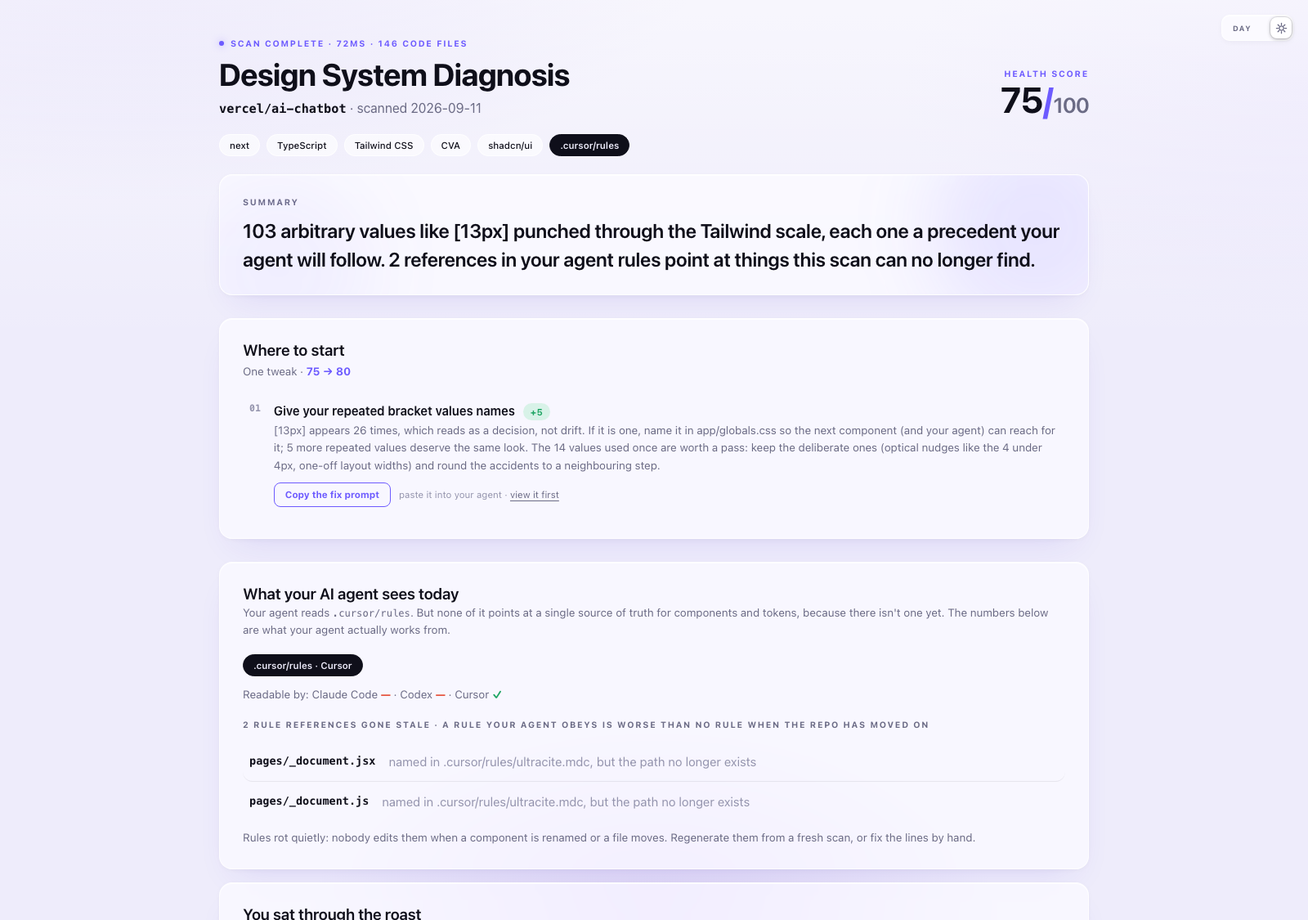
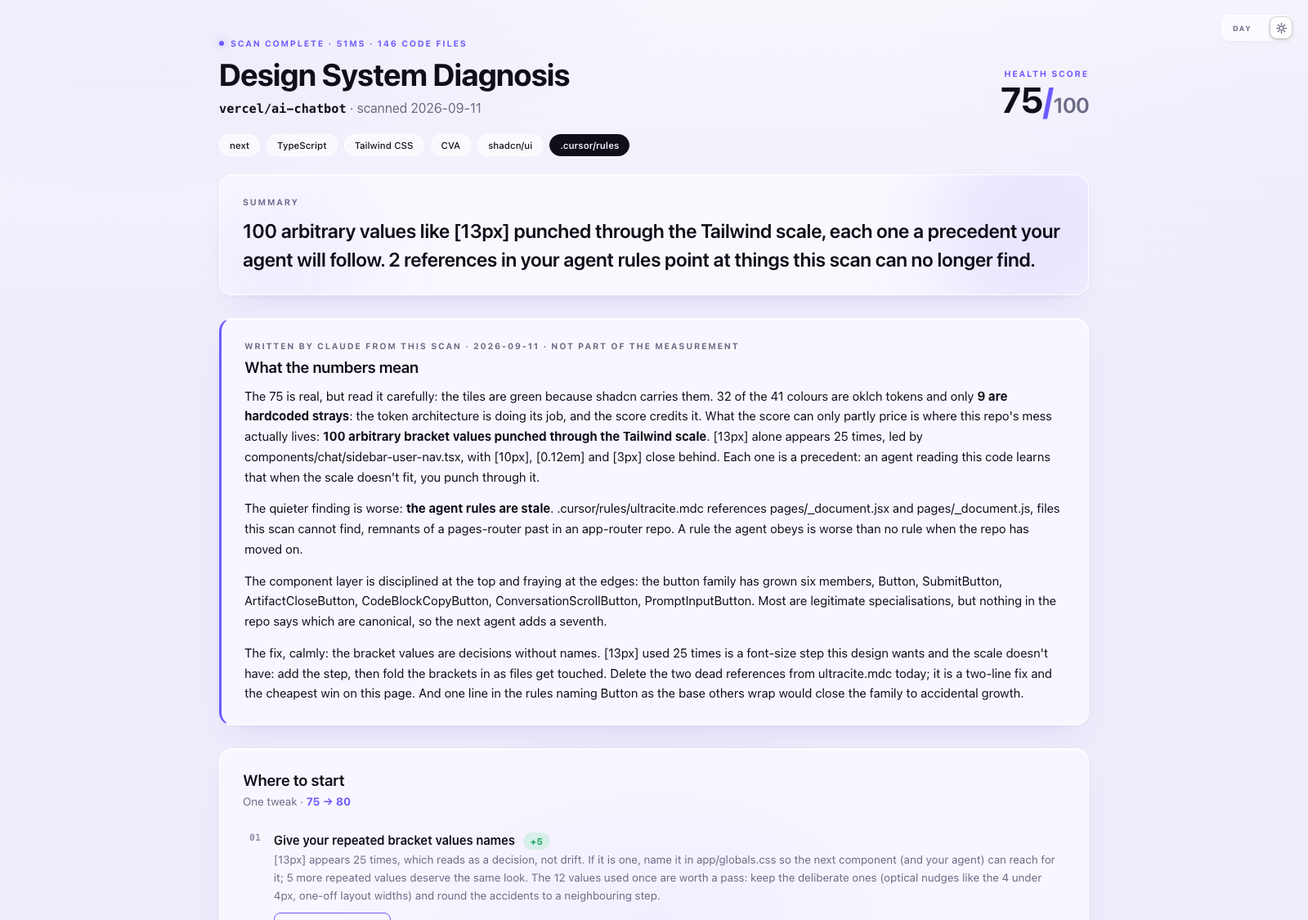
7.0.0 shop window: screenshots reshot in Chrome, README boxes for 7.0 and 6.0, examples stamped 7.0.0
Screenshots from the regenerated vercel/ai-chatbot example, with its
notes back: full dark at 1400x7864, light hero at 1600x1125. README
keeps the 6.0 box under the new 7.0 one, the --json row says the
summary is versioned, and the trust list gains the importable score.
Cache keys move to 7.0.0.

diff --git a/docs/examples/adobe-spectrum.html b/docs/examples/adobe-spectrum.html
@@ -416,7 +416,7 @@
[1 lines of base64/hex data omitted]
   .author:hover { text-decoration:underline; }
 </style>
-<!-- rmds-schema: gregkozakiewicz/6.0.1 -->
+<!-- rmds-schema: gregkozakiewicz/7.0.0 -->
 <!-- rmds-score: 66 -->
 </head><body>
 <button class="theme-toggle glass" aria-label="Switch between light and dark mode" onclick="(function(){var r=document.documentElement,t=r.getAttribute('data-theme')==='light'?'dark':'light';r.setAttribute('data-theme',t);try{localStorage.setItem('roast-theme',t)}catch(e){}})()">
@@ -433,7 +433,7 @@
 <header>
   <div class="hero">
     <div>
-      <div class="kicker"><span class="dot"></span>Scan complete · 297ms · 1,716 code files</div>
+      <div class="kicker"><span class="dot"></span>Scan complete · 289ms · 1,716 code files</div>
       <h1>Design System Diagnosis</h1>
       <div class="meta"><span class="mono">adobe/spectrum-web-components</span> · scanned 2026-09-11</div>
     </div>
@@ -611,7 +611,7 @@ Follow these rules when writing or editing UI in this repo. Every rule below was
 - Before styling anything new, look at a neighbouring component and match how it does it. Consistency with the repo beats personal preference.
 
 ---
-*Generated by [roast-my-design-system](https://github.com/gregkozakiewicz/roast-my-design-system) ver. 6.0.1. Rescan after refactors to keep these rules honest.*
+*Generated by [roast-my-design-system](https://github.com/gregkozakiewicz/roast-my-design-system) ver. 7.0.0. Rescan after refactors to keep these rules honest.*
 </pre>
         <div class="gift-actions">
           <button class="gbtn" id="gift-copy">Copy the rules</button>
@@ -933,8 +933,8 @@ Follow these rules when writing or editing UI in this repo. Every rule below was
 
 <footer>
   <div class="foot-left">
-    <div>Generated by <a class="brand" href="https://github.com/gregkozakiewicz/roast-my-design-system">roast-my-design-system</a> <span class="ver">ver. 6.0.1</span> · free to run: <a class="brand" href="https://www.npmjs.com/package/roast-my-design-system"><span class="mono" id="npx-cmd">npx roast-my-design-system</span></a> <button type="button" class="copy-pill" id="npx-copy">copy</button> · also a Claude Code + Codex skill and a local MCP server</div>
-    <div class="foot-sub">Designed and built by <a class="author" href="https://gregkozakiewicz.com/?utm_source=roast-report"><span class="gk-mark"></span>Greg Kozakiewicz</a> · <span class="scan-id" title="scan id">f77f3d3d1cd1</span> · Think it got something wrong? <a class="feedback" href="https://github.com/gregkozakiewicz/roast-my-design-system/issues/new?template=feedback.yml&amp;version=6.0.1"><svg class="pulse" viewBox="0 0 24 24" aria-hidden="true"><polyline points="2 12.5 6.5 12.5 9.5 4 15 20.5 18 12.5 22 12.5"/></svg>Say so, and say which bit</a></div>
+    <div>Generated by <a class="brand" href="https://github.com/gregkozakiewicz/roast-my-design-system">roast-my-design-system</a> <span class="ver">ver. 7.0.0</span> · free to run: <span class="mono" id="npx-cmd">npx roast-my-design-system@latest</span> <button type="button" class="copy-pill" id="npx-copy">copy</button> · also a Claude Code + Codex skill and a local MCP server</div>
+    <div class="foot-sub">Designed and built by <a class="author" href="https://gregkozakiewicz.com/?utm_source=roast-report"><span class="gk-mark"></span>Greg Kozakiewicz</a> · <span class="scan-id" title="scan id">f77f3d3d1cd1</span> · Think it got something wrong? <a class="feedback" href="https://github.com/gregkozakiewicz/roast-my-design-system/issues/new?template=feedback.yml&amp;version=7.0.0"><svg class="pulse" viewBox="0 0 24 24" aria-hidden="true"><polyline points="2 12.5 6.5 12.5 9.5 4 15 20.5 18 12.5 22 12.5"/></svg>Say so, and say which bit</a></div>
   </div>
   <span class="creds"><span>Non-destructive scan</span><span>Read-only</span><span>Paths are real</span></span>
 </footer>

diff --git a/docs/examples/excalidraw-excalidraw.html b/docs/examples/excalidraw-excalidraw.html
@@ -416,7 +416,7 @@
[1 lines of base64/hex data omitted]
   .author:hover { text-decoration:underline; }
 </style>
-<!-- rmds-schema: gregkozakiewicz/6.0.1 -->
+<!-- rmds-schema: gregkozakiewicz/7.0.0 -->
 <!-- rmds-score: 55 -->
 </head><body>
 <button class="theme-toggle glass" aria-label="Switch between light and dark mode" onclick="(function(){var r=document.documentElement,t=r.getAttribute('data-theme')==='light'?'dark':'light';r.setAttribute('data-theme',t);try{localStorage.setItem('roast-theme',t)}catch(e){}})()">
@@ -433,7 +433,7 @@
 <header>
   <div class="hero">
     <div>
-      <div class="kicker"><span class="dot"></span>Scan complete · 227ms · 509 code files</div>
+      <div class="kicker"><span class="dot"></span>Scan complete · 156ms · 509 code files</div>
       <h1>Design System Diagnosis</h1>
       <div class="meta"><span class="mono">excalidraw/excalidraw</span> · scanned 2026-09-11</div>
     </div>
@@ -599,7 +599,7 @@ Follow these rules when writing or editing UI in this repo. Every rule below was
 - Before styling anything new, look at a neighbouring component and match how it does it. Consistency with the repo beats personal preference.
 
 ---
-*Generated by [roast-my-design-system](https://github.com/gregkozakiewicz/roast-my-design-system) ver. 6.0.1. Rescan after refactors to keep these rules honest.*
+*Generated by [roast-my-design-system](https://github.com/gregkozakiewicz/roast-my-design-system) ver. 7.0.0. Rescan after refactors to keep these rules honest.*
 </pre>
         <div class="gift-actions">
           <button class="gbtn" id="gift-copy">Copy the rules</button>
@@ -1152,8 +1152,8 @@ Follow these rules when writing or editing UI in this repo. Every rule below was
 
 <footer>
   <div class="foot-left">
-    <div>Generated by <a class="brand" href="https://github.com/gregkozakiewicz/roast-my-design-system">roast-my-design-system</a> <span class="ver">ver. 6.0.1</span> · free to run: <a class="brand" href="https://www.npmjs.com/package/roast-my-design-system"><span class="mono" id="npx-cmd">npx roast-my-design-system</span></a> <button type="button" class="copy-pill" id="npx-copy">copy</button> · also a Claude Code + Codex skill and a local MCP server</div>
-    <div class="foot-sub">Designed and built by <a class="author" href="https://gregkozakiewicz.com/?utm_source=roast-report"><span class="gk-mark"></span>Greg Kozakiewicz</a> · <span class="scan-id" title="scan id">fcd87125ec27</span> · Think it got something wrong? <a class="feedback" href="https://github.com/gregkozakiewicz/roast-my-design-system/issues/new?template=feedback.yml&amp;version=6.0.1"><svg class="pulse" viewBox="0 0 24 24" aria-hidden="true"><polyline points="2 12.5 6.5 12.5 9.5 4 15 20.5 18 12.5 22 12.5"/></svg>Say so, and say which bit</a></div>
+    <div>Generated by <a class="brand" href="https://github.com/gregkozakiewicz/roast-my-design-system">roast-my-design-system</a> <span class="ver">ver. 7.0.0</span> · free to run: <span class="mono" id="npx-cmd">npx roast-my-design-system@latest</span> <button type="button" class="copy-pill" id="npx-copy">copy</button> · also a Claude Code + Codex skill and a local MCP server</div>
+    <div class="foot-sub">Designed and built by <a class="author" href="https://gregkozakiewicz.com/?utm_source=roast-report"><span class="gk-mark"></span>Greg Kozakiewicz</a> · <span class="scan-id" title="scan id">fcd87125ec27</span> · Think it got something wrong? <a class="feedback" href="https://github.com/gregkozakiewicz/roast-my-design-system/issues/new?template=feedback.yml&amp;version=7.0.0"><svg class="pulse" viewBox="0 0 24 24" aria-hidden="true"><polyline points="2 12.5 6.5 12.5 9.5 4 15 20.5 18 12.5 22 12.5"/></svg>Say so, and say which bit</a></div>
   </div>
   <span class="creds"><span>Non-destructive scan</span><span>Read-only</span><span>Paths are real</span></span>
 </footer>

diff --git a/docs/examples/dubinc-dub.html b/docs/examples/dubinc-dub.html
@@ -416,7 +416,7 @@
[1 lines of base64/hex data omitted]
   .author:hover { text-decoration:underline; }
 </style>
-<!-- rmds-schema: gregkozakiewicz/6.0.1 -->
+<!-- rmds-schema: gregkozakiewicz/7.0.0 -->
 <!-- rmds-score: 25 -->
 </head><body>
 <button class="theme-toggle glass" aria-label="Switch between light and dark mode" onclick="(function(){var r=document.documentElement,t=r.getAttribute('data-theme')==='light'?'dark':'light';r.setAttribute('data-theme',t);try{localStorage.setItem('roast-theme',t)}catch(e){}})()">
@@ -433,7 +433,7 @@
 <header>
   <div class="hero">
     <div>
-      <div class="kicker"><span class="dot"></span>Scan complete · 1032ms · 4,157 code files</div>
+      <div class="kicker"><span class="dot"></span>Scan complete · 714ms · 4,157 code files</div>
       <h1>Design System Diagnosis</h1>
       <div class="meta"><span class="mono">dubinc/dub</span> · scanned 2026-09-11</div>
     </div>
@@ -610,7 +610,7 @@ Follow these rules when writing or editing UI in this repo. Every rule below was
 - Before styling anything new, look at a neighbouring component and match how it does it. Consistency with the repo beats personal preference.
 
 ---
-*Generated by [roast-my-design-system](https://github.com/gregkozakiewicz/roast-my-design-system) ver. 6.0.1. Rescan after refactors to keep these rules honest.*
+*Generated by [roast-my-design-system](https://github.com/gregkozakiewicz/roast-my-design-system) ver. 7.0.0. Rescan after refactors to keep these rules honest.*
 </pre>
         <div class="gift-actions">
           <button class="gbtn" id="gift-copy">Copy the rules</button>
@@ -1107,8 +1107,8 @@ Follow these rules when writing or editing UI in this repo. Every rule below was
 
 <footer>
   <div class="foot-left">
-    <div>Generated by <a class="brand" href="https://github.com/gregkozakiewicz/roast-my-design-system">roast-my-design-system</a> <span class="ver">ver. 6.0.1</span> · free to run: <a class="brand" href="https://www.npmjs.com/package/roast-my-design-system"><span class="mono" id="npx-cmd">npx roast-my-design-system</span></a> <button type="button" class="copy-pill" id="npx-copy">copy</button> · also a Claude Code + Codex skill and a local MCP server</div>
-    <div class="foot-sub">Designed and built by <a class="author" href="https://gregkozakiewicz.com/?utm_source=roast-report"><span class="gk-mark"></span>Greg Kozakiewicz</a> · <span class="scan-id" title="scan id">f2e7a6e2d287</span> · Think it got something wrong? <a class="feedback" href="https://github.com/gregkozakiewicz/roast-my-design-system/issues/new?template=feedback.yml&amp;version=6.0.1"><svg class="pulse" viewBox="0 0 24 24" aria-hidden="true"><polyline points="2 12.5 6.5 12.5 9.5 4 15 20.5 18 12.5 22 12.5"/></svg>Say so, and say which bit</a></div>
+    <div>Generated by <a class="brand" href="https://github.com/gregkozakiewicz/roast-my-design-system">roast-my-design-system</a> <span class="ver">ver. 7.0.0</span> · free to run: <span class="mono" id="npx-cmd">npx roast-my-design-system@latest</span> <button type="button" class="copy-pill" id="npx-copy">copy</button> · also a Claude Code + Codex skill and a local MCP server</div>
+    <div class="foot-sub">Designed and built by <a class="author" href="https://gregkozakiewicz.com/?utm_source=roast-report"><span class="gk-mark"></span>Greg Kozakiewicz</a> · <span class="scan-id" title="scan id">f2e7a6e2d287</span> · Think it got something wrong? <a class="feedback" href="https://github.com/gregkozakiewicz/roast-my-design-system/issues/new?template=feedback.yml&amp;version=7.0.0"><svg class="pulse" viewBox="0 0 24 24" aria-hidden="true"><polyline points="2 12.5 6.5 12.5 9.5 4 15 20.5 18 12.5 22 12.5"/></svg>Say so, and say which bit</a></div>
   </div>
   <span class="creds"><span>Non-destructive scan</span><span>Read-only</span><span>Paths are real</span></span>
 </footer>

diff --git a/docs/examples/telekom-scale.html b/docs/examples/telekom-scale.html
@@ -416,7 +416,7 @@
[1 lines of base64/hex data omitted]
   .author:hover { text-decoration:underline; }
 </style>
-<!-- rmds-schema: gregkozakiewicz/6.0.1 -->
+<!-- rmds-schema: gregkozakiewicz/7.0.0 -->
 <!-- rmds-score: 55 -->
 </head><body>
 <button class="theme-toggle glass" aria-label="Switch between light and dark mode" onclick="(function(){var r=document.documentElement,t=r.getAttribute('data-theme')==='light'?'dark':'light';r.setAttribute('data-theme',t);try{localStorage.setItem('roast-theme',t)}catch(e){}})()">
@@ -433,7 +433,7 @@
 <header>
   <div class="hero">
     <div>
-      <div class="kicker"><span class="dot"></span>Scan complete · 86ms · 210 code files</div>
+      <div class="kicker"><span class="dot"></span>Scan complete · 83ms · 210 code files</div>
       <h1>Design System Diagnosis</h1>
       <div class="meta"><span class="mono">telekom/scale</span> · scanned 2026-09-11</div>
     </div>
@@ -601,7 +601,7 @@ Follow these rules when writing or editing UI in this repo. Every rule below was
 - Before styling anything new, look at a neighbouring component and match how it does it. Consistency with the repo beats personal preference.
 
 ---
-*Generated by [roast-my-design-system](https://github.com/gregkozakiewicz/roast-my-design-system) ver. 6.0.1. Rescan after refactors to keep these rules honest.*
+*Generated by [roast-my-design-system](https://github.com/gregkozakiewicz/roast-my-design-system) ver. 7.0.0. Rescan after refactors to keep these rules honest.*
 </pre>
         <div class="gift-actions">
           <button class="gbtn" id="gift-copy">Copy the rules</button>
@@ -1053,8 +1053,8 @@ Follow these rules when writing or editing UI in this repo. Every rule below was
 
 <footer>
   <div class="foot-left">
-    <div>Generated by <a class="brand" href="https://github.com/gregkozakiewicz/roast-my-design-system">roast-my-design-system</a> <span class="ver">ver. 6.0.1</span> · free to run: <a class="brand" href="https://www.npmjs.com/package/roast-my-design-system"><span class="mono" id="npx-cmd">npx roast-my-design-system</span></a> <button type="button" class="copy-pill" id="npx-copy">copy</button> · also a Claude Code + Codex skill and a local MCP server</div>
-    <div class="foot-sub">Designed and built by <a class="author" href="https://gregkozakiewicz.com/?utm_source=roast-report"><span class="gk-mark"></span>Greg Kozakiewicz</a> · <span class="scan-id" title="scan id">36590eb69160</span> · Think it got something wrong? <a class="feedback" href="https://github.com/gregkozakiewicz/roast-my-design-system/issues/new?template=feedback.yml&amp;version=6.0.1"><svg class="pulse" viewBox="0 0 24 24" aria-hidden="true"><polyline points="2 12.5 6.5 12.5 9.5 4 15 20.5 18 12.5 22 12.5"/></svg>Say so, and say which bit</a></div>
+    <div>Generated by <a class="brand" href="https://github.com/gregkozakiewicz/roast-my-design-system">roast-my-design-system</a> <span class="ver">ver. 7.0.0</span> · free to run: <span class="mono" id="npx-cmd">npx roast-my-design-system@latest</span> <button type="button" class="copy-pill" id="npx-copy">copy</button> · also a Claude Code + Codex skill and a local MCP server</div>
+    <div class="foot-sub">Designed and built by <a class="author" href="https://gregkozakiewicz.com/?utm_source=roast-report"><span class="gk-mark"></span>Greg Kozakiewicz</a> · <span class="scan-id" title="scan id">36590eb69160</span> · Think it got something wrong? <a class="feedback" href="https://github.com/gregkozakiewicz/roast-my-design-system/issues/new?template=feedback.yml&amp;version=7.0.0"><svg class="pulse" viewBox="0 0 24 24" aria-hidden="true"><polyline points="2 12.5 6.5 12.5 9.5 4 15 20.5 18 12.5 22 12.5"/></svg>Say so, and say which bit</a></div>
   </div>
   <span class="creds"><span>Non-destructive scan</span><span>Read-only</span><span>Paths are real</span></span>
 </footer>

diff --git a/docs/examples/vercel-ai-chatbot.html b/docs/examples/vercel-ai-chatbot.html
@@ -416,7 +416,7 @@
[1 lines of base64/hex data omitted]
   .author:hover { text-decoration:underline; }
 </style>
-<!-- rmds-schema: gregkozakiewicz/6.0.1 -->
+<!-- rmds-schema: gregkozakiewicz/7.0.0 -->
 <!-- rmds-score: 75 -->
 </head><body>
 <button class="theme-toggle glass" aria-label="Switch between light and dark mode" onclick="(function(){var r=document.documentElement,t=r.getAttribute('data-theme')==='light'?'dark':'light';r.setAttribute('data-theme',t);try{localStorage.setItem('roast-theme',t)}catch(e){}})()">
@@ -574,7 +574,7 @@ Follow these rules when writing or editing UI in this repo. Every rule below was
 - Before styling anything new, look at a neighbouring component and match how it does it. Consistency with the repo beats personal preference.
 
 ---
-*Generated by [roast-my-design-system](https://github.com/gregkozakiewicz/roast-my-design-system) ver. 6.0.1. Rescan after refactors to keep these rules honest.*
+*Generated by [roast-my-design-system](https://github.com/gregkozakiewicz/roast-my-design-system) ver. 7.0.0. Rescan after refactors to keep these rules honest.*
 </pre>
         <div class="gift-actions">
           <button class="gbtn" id="gift-copy">Copy the rules</button>
@@ -984,8 +984,8 @@ Follow these rules when writing or editing UI in this repo. Every rule below was
 
 <footer>
   <div class="foot-left">
-    <div>Generated by <a class="brand" href="https://github.com/gregkozakiewicz/roast-my-design-system">roast-my-design-system</a> <span class="ver">ver. 6.0.1</span> · free to run: <a class="brand" href="https://www.npmjs.com/package/roast-my-design-system"><span class="mono" id="npx-cmd">npx roast-my-design-system</span></a> <button type="button" class="copy-pill" id="npx-copy">copy</button> · also a Claude Code + Codex skill and a local MCP server</div>
-    <div class="foot-sub">Designed and built by <a class="author" href="https://gregkozakiewicz.com/?utm_source=roast-report"><span class="gk-mark"></span>Greg Kozakiewicz</a> · <span class="scan-id" title="scan id">84e678e6edb8</span> · Think it got something wrong? <a class="feedback" href="https://github.com/gregkozakiewicz/roast-my-design-system/issues/new?template=feedback.yml&amp;version=6.0.1"><svg class="pulse" viewBox="0 0 24 24" aria-hidden="true"><polyline points="2 12.5 6.5 12.5 9.5 4 15 20.5 18 12.5 22 12.5"/></svg>Say so, and say which bit</a></div>
+    <div>Generated by <a class="brand" href="https://github.com/gregkozakiewicz/roast-my-design-system">roast-my-design-system</a> <span class="ver">ver. 7.0.0</span> · free to run: <span class="mono" id="npx-cmd">npx roast-my-design-system@latest</span> <button type="button" class="copy-pill" id="npx-copy">copy</button> · also a Claude Code + Codex skill and a local MCP server</div>
+    <div class="foot-sub">Designed and built by <a class="author" href="https://gregkozakiewicz.com/?utm_source=roast-report"><span class="gk-mark"></span>Greg Kozakiewicz</a> · <span class="scan-id" title="scan id">84e678e6edb8</span> · Think it got something wrong? <a class="feedback" href="https://github.com/gregkozakiewicz/roast-my-design-system/issues/new?template=feedback.yml&amp;version=7.0.0"><svg class="pulse" viewBox="0 0 24 24" aria-hidden="true"><polyline points="2 12.5 6.5 12.5 9.5 4 15 20.5 18 12.5 22 12.5"/></svg>Say so, and say which bit</a></div>
   </div>
   <span class="creds"><span>Non-destructive scan</span><span>Read-only</span><span>Paths are real</span></span>
 </footer>

diff --git a/README.md b/README.md
@@ -1,4 +1,4 @@
-<img src="https://raw.githubusercontent.com/gregkozakiewicz/roast-my-design-system/main/assets/roaster_logo_300px.png?v=6.0.1" width="72" alt="roast-my-design-system">
+<img src="https://raw.githubusercontent.com/gregkozakiewicz/roast-my-design-system/main/assets/roaster_logo_300px.png?v=7.0.0" width="72" alt="roast-my-design-system">
 
 # roast-my-design-system
 
@@ -11,6 +11,8 @@
 A free CLI tool (and Claude Code skill) that roasts your repo's design system with real data, then generates the rules that keep your AI agent on-system.
 
 > **New in 7.0: the score is a module, and every report names its ruler.** The arithmetic behind the number now lives in one importable file, so a CI guard or a dashboard keeping history judges with the same bands as the report. Every `summary.json` says which schema and which benchmark it was measured against, so a repo that changed can be told apart from a ruler that changed. Five counting faults were fixed on the way: a bracket spacing class was penalised twice, a hex inside a CSS comment counted as a colour, and three smaller ones. Counts fall a little on most repos; on shadcn/ui 325 colours become 323 and the score stays 65. Big monorepos scan about ten times faster. If you gate CI on a threshold, take a fresh score before you compare, and if you read the JSON, a tile's `value` is now a number with the printed string beside it as `display`.
+
+> **New in 6.0: a dark mode is not sprawl, and the ruler has been rebuilt.** A system with a dark theme states most of its colours twice. One with a density switch states its spacing twice again. Every restatement was counted, so the systems doing the most work scored the worst. Now only a token's first statement counts. A factory-fresh shadcn install goes from 20 colours to 16, and Shoelace from 420 to 219. Two related faults went with it. `border-radius: var(--radius)` was counted as a radius value, so Polaris showed 49 radii of which 36 were references to its own tokens, and Telekom showed 52 font sizes of which 48 were. A new finding names one token holding two different colours in two packages of a monorepo, which fires 8 times across 19 real repos. The benchmark was rebuilt with all of it, so every score is measured against a ruler that counts the same way: cal.com 15 to 20, Cloudscape 35 to 40, MUI 50 to 55. If you have a score from 5.x, take a fresh one before you compare.
 
 Run it on your codebase and get, in about a second:
 
@@ -43,7 +45,7 @@ Type these in a terminal and you get a result.
 | `... --sarif` | `design-system-roast.sarif` for GitHub code scanning: upload it in CI and findings appear in the Security tab, annotated on files |
 | `... --check` | The working tree's changed files checked against the design system, in the terminal. Exits 1 on findings, so it slots into scripts |
 | <code>...&nbsp;--exclude&nbsp;lab/</code> | Leave a folder out of the scan (repeat the flag or comma-separate). Or list folders in a `.roastignore` file at the repo root. Either way the report says so in the header; see [Scoping the scan](#scoping-the-scan) |
-| `... --json` | The scan summary as JSON on stdout, for scripts and pipelines |
+| `... --json` | The scan summary as JSON on stdout, for scripts and pipelines. Versioned: `schemaVersion`, the benchmark it was measured against, and every metric as a number, so two scans can be compared like with like |
 | <code>...&nbsp;--by&nbsp;"Dwayne&nbsp;Hicks"</code> | Puts a name in the report header, for when you ran it for someone else |
 | <code>...&nbsp;--theme&nbsp;light</code>&nbsp;/ <code>--out&nbsp;&lt;file&gt;</code>&nbsp;/ <code>--no-open</code>&nbsp;/ <code>--open</code> | Light report, custom report path, never open the browser, always open it |
 
@@ -71,11 +73,11 @@ Not to be confused with each other: **"Why this matters"** is generic, ships wit
 
 The full report for vercel/ai-chatbot, top to bottom, including "What the numbers mean", Claude's read of the scan, embedded right under the verdict:
 
-![The full diagnosis report for vercel/ai-chatbot in dark mode: health score, the What the numbers mean analysis written by Claude, priced Where to start moves each with its copy-the-fix-prompt button, the wrapped present with the agent rules, an agent trap callout, 3-yardstick tiles, the adoption map treemap, palette forensics, spacing receipts, typography specimens, offenders, duplicates, and the component usage ledger](https://raw.githubusercontent.com/gregkozakiewicz/roast-my-design-system/main/assets/report-full-dark.png?v=6.0.1)
+![The full diagnosis report for vercel/ai-chatbot in dark mode: health score, the What the numbers mean analysis written by Claude, priced Where to start moves each with its copy-the-fix-prompt button, the wrapped present with the agent rules, an agent trap callout, 3-yardstick tiles, the adoption map treemap, palette forensics, spacing receipts, typography specimens, offenders, duplicates, and the component usage ledger](https://raw.githubusercontent.com/gregkozakiewicz/roast-my-design-system/main/assets/report-full-dark.png?v=7.0.0)
 
 The same report in light mode (one file, built-in toggle):
 
-![The diagnosis report in light mode](https://raw.githubusercontent.com/gregkozakiewicz/roast-my-design-system/main/assets/report-light-hero.png?v=6.0.1)
+![The diagnosis report in light mode](https://raw.githubusercontent.com/gregkozakiewicz/roast-my-design-system/main/assets/report-light-hero.png?v=7.0.0)
 
 ## What makes the numbers trustworthy
 
@@ -86,6 +88,7 @@ The same report in light mode (one file, built-in toggle):
 - **Honest gaps.** When a repo's components register in a pattern the scan can not read, the component tiles say "not measured" and drop out of the score. A zero the scanner never earned is presented as blindness, not discipline.
 - **Honest exclusions.** Test files, Storybook stories, docs sites, example apps, SVG artwork, and email templates (which *must* inline styles) are excluded, so you can't discredit the numbers on a technicality. Your own exclusions (`.roastignore`, `--exclude`) are printed in the report header with file counts, so a scoped scan can never pass itself off as the whole repo.
 - **Intent-aware counting (v3).** Runtime-computed inline styles, compound-component APIs and wrapper components are not crimes and are not counted as ones. Token-led repos are judged on their hardcoded strays, not their token architecture. Repeated arbitrary values are read as decisions without names, not drift.
+- **The score is arithmetic you can import.** The bands, the tolerances and the average live in one small module, `scoreHarvest(harvest)`, and the report only draws what it returns. A CI guard or a dashboard keeping history judges with the same ruler as the page, and every `summary.json` names the schema and the benchmark it was measured against.
 - **A real benchmark.** The "Avg Design System" yardstick comes from scanning 34 public React repos (cal.com, excalidraw, supabase, grafana, twenty, dub, langfuse…). Median: 130 colours, 17 greys, 20 duplicated components, 49 inline style blocks, 70 arbitrary Tailwind values. The builder and the repo list are in `tools/benchmark/`, so the ruler can be checked, not just quoted.
 - **A second yardstick: reputable systems.** Curated, scoped scans of 10 well-known design systems (shadcn/ui, Primer, Polaris, Carbon, Material UI, Chakra, Ant Design, GOV.UK, Spectrum, Cloudscape) show what disciplined looks like at scale.
 
